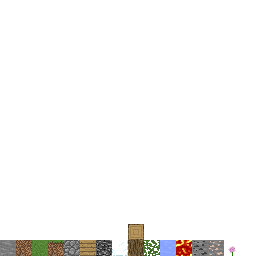
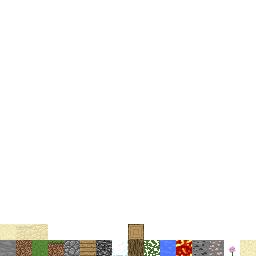
Add sandstone, sand

Changed region(s): [[0.0, 0.875, 0.1875, 0.9375], [0.9375, 0.9375, 1.0, 1.0], [0.625, 0.9375, 0.6875, 1.0]]

diff --git a/src/shared/entities/entityplayer.cpp b/src/shared/entities/entityplayer.cpp
@@ -98,7 +98,7 @@ void CEntityPlayer::UpdateClient( CWorld *clientSideWorld )
 			m_iSelectedBlockType = blocktype_t( m_iSelectedBlockType + 1 );
 			if ( m_iSelectedBlockType == blocktype_t::BEDROCK )
 				m_iSelectedBlockType = blocktype_t( m_iSelectedBlockType + 1 );
-			if ( m_iSelectedBlockType > blocktype_t::FLOWER )
+			if ( m_iSelectedBlockType > blocktype_t::SANDSTONE )
 				m_iSelectedBlockType = blocktype_t::STONE;
 		}
 		else if ( m_pInputMan->m_iMouseState & IN_WHEEL_DOWN )
@@ -107,7 +107,7 @@ void CEntityPlayer::UpdateClient( CWorld *clientSideWorld )
 			if ( m_iSelectedBlockType == blocktype_t::BEDROCK )
 				m_iSelectedBlockType = blocktype_t( m_iSelectedBlockType - 1 );
 			if ( m_iSelectedBlockType <= blocktype_t::AIR )
-				m_iSelectedBlockType = blocktype_t::FLOWER;
+				m_iSelectedBlockType = blocktype_t::SANDSTONE;
 		}
 	}
 }

diff --git a/src/shared/blockdef.cpp b/src/shared/blockdef.cpp
@@ -10,6 +10,7 @@ blockmaterial_t GetBlockMaterial( blocktype_t blockType )
 		case BEDROCK:
 		case ORE_COAL:
 		case ORE_IRON:
+		case SANDSTONE:
 			return blockmaterial_t::MAT_STONE;
 			break;
 
@@ -35,6 +36,10 @@ blockmaterial_t GetBlockMaterial( blocktype_t blockType )
 		case WATER:
 		case LAVA:
 			return blockmaterial_t::MAT_LIQUID;
+			break;
+		
+		case SAND:
+			return blockmaterial_t::MAT_DUST;
 			break;
 	}
 }

diff --git a/src/client/rendering/blocktexture.cpp b/src/client/rendering/blocktexture.cpp
@@ -65,5 +65,19 @@ BlockTexture GetDefaultBlockTextureSide( blocktype_t type, Direction side )
 		case FLOWER:
 			return { 14, 0, 1, 1 };
 			break;
+		case SAND:
+			return { 15, 0, 1, 1 };
+			break;
+		case SANDSTONE:
+			if ( side == Direction::UP )
+			{
+				return { 0, 1, 1, 1 };
+			}
+			if ( side == Direction::DOWN )
+			{
+				return { 2, 1, 1, 1 };
+			}
+			return { 1, 1, 1, 1 };
+			break;
 	}
 }

diff --git a/src/shared/blockdef.hpp b/src/shared/blockdef.hpp
@@ -22,6 +22,8 @@ enum blocktype_t {
 	ORE_COAL = 12,
 	ORE_IRON = 13,
 	FLOWER	 = 14,
+	SAND	 = 15,
+	SANDSTONE = 16,
 };
 
 enum blockmaterial_t {
@@ -32,6 +34,7 @@ enum blockmaterial_t {
 	MAT_GLASS	= 4, // It's glass
 	MAT_ORGANIC = 5, // Grass, Leaves, Plants
 	MAT_LIQUID  = 6, // Water, Lava
+	MAT_DUST    = 7 // Sand
 };
 
 enum blockobscurerule_t {
